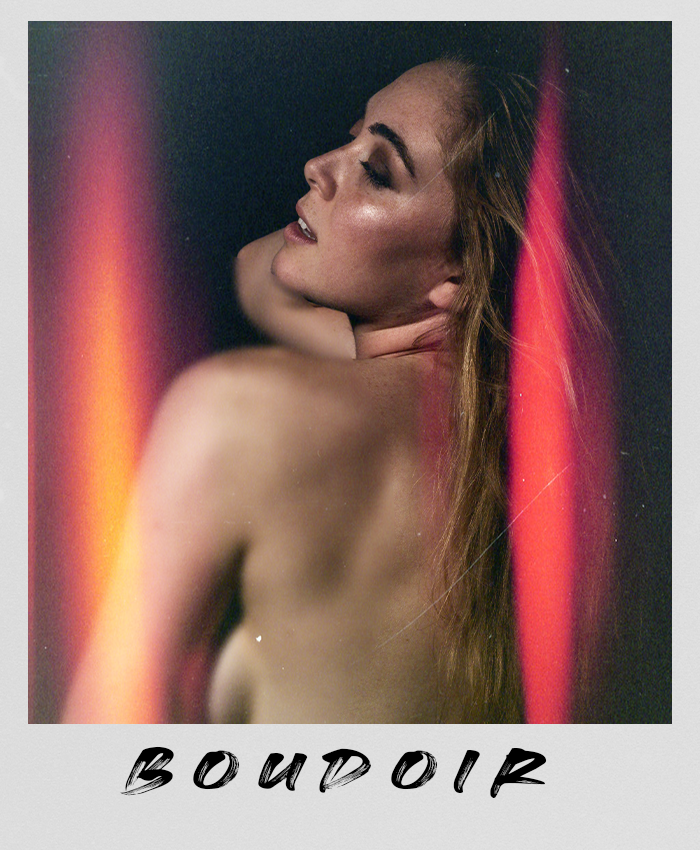
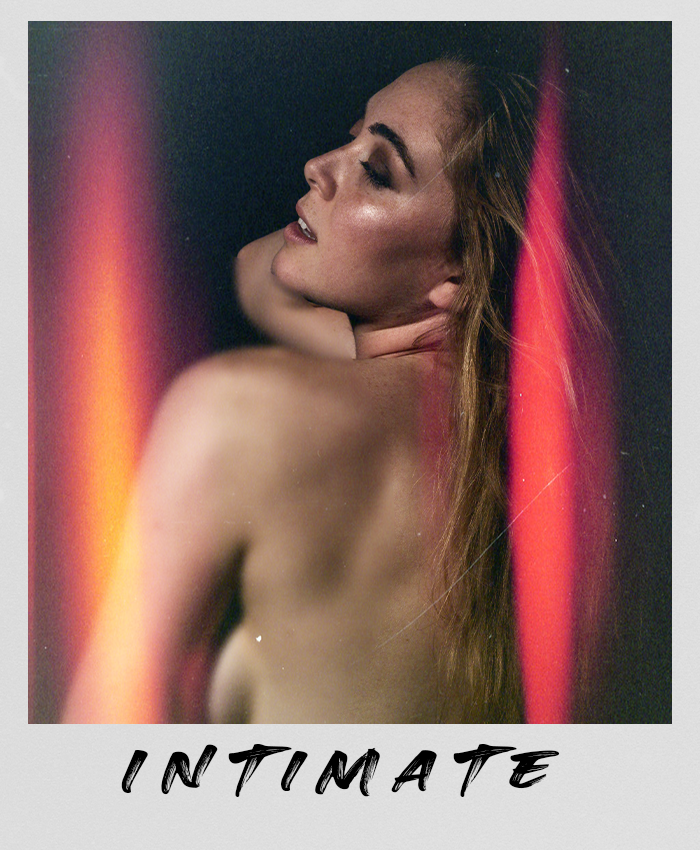
name changes
also fixed the videos link to scroll to video section

Changed region(s): [[0.15, 0.8565, 0.78, 0.9482]]

diff --git a/Index.html b/Index.html
@@ -264,7 +264,7 @@
 </style>
 
 <!-- Videos Section -->
- <div class="filmstrip-frame">
+ <div id="videos" class="filmstrip-frame">
   <div class="sprockets top"></div>
   <div class="video-wrap">
       <iframe 
